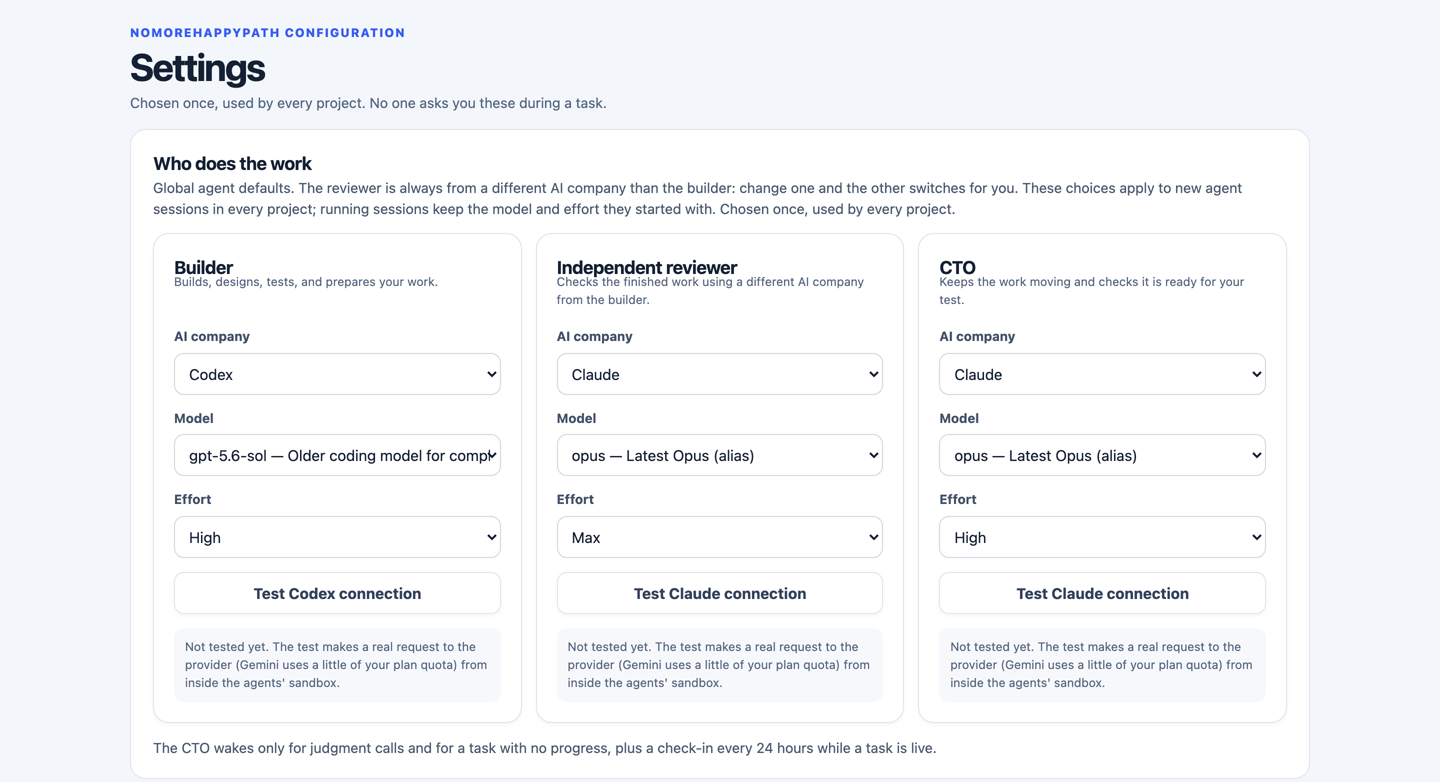
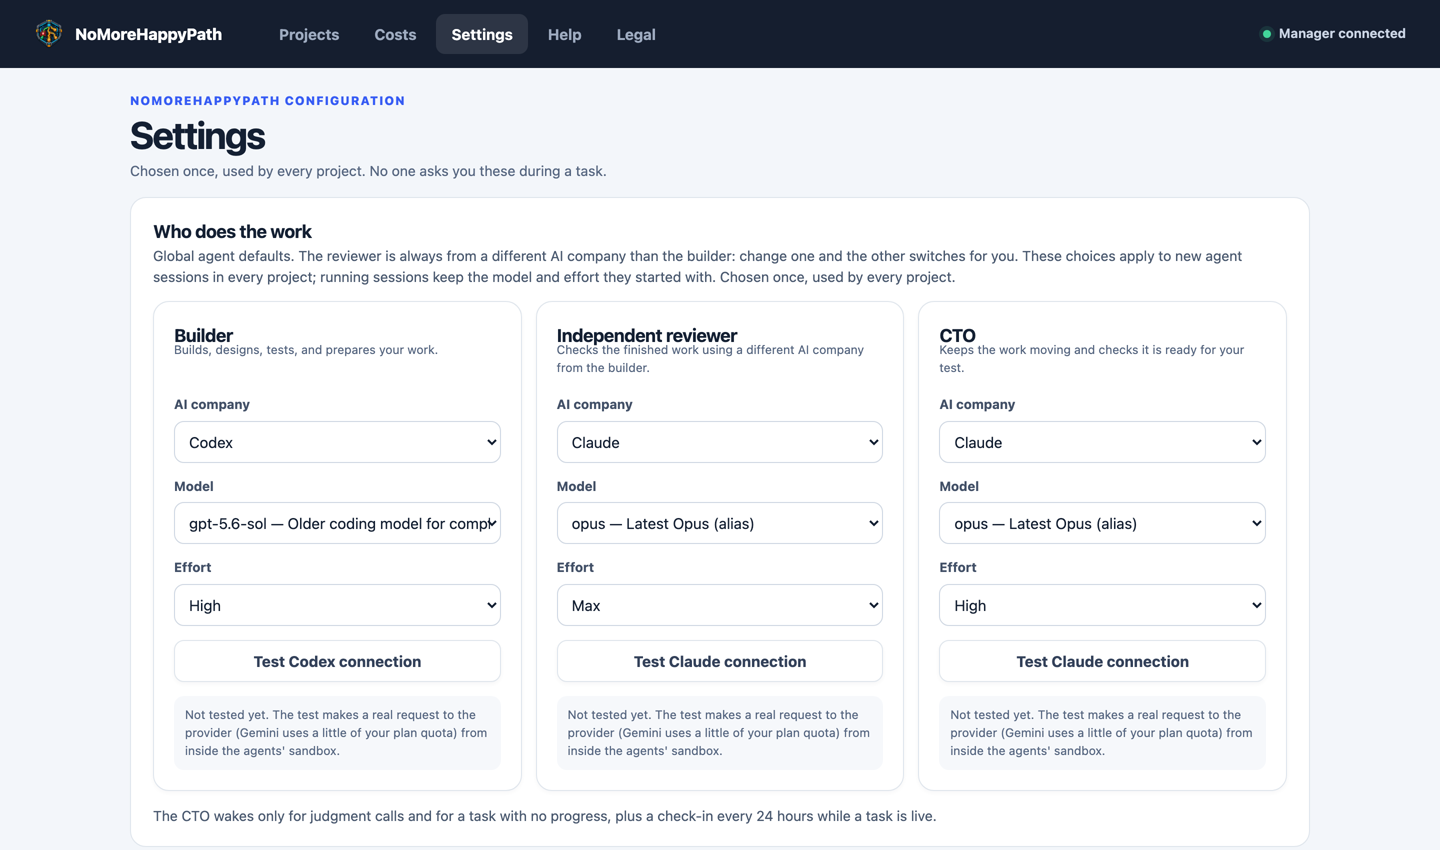
Swap in clean Settings and start-dialog screens (no version badge)

diff --git a/index.html b/index.html
@@ -361,7 +361,7 @@
         <div class="card"><h3>Security, enhanced on demand</h3><p>Every app gets a built-in security baseline. Switch on Enhanced security for a task and it adds a threat model, security tests and a controls register, ready for a security assessment or audit.</p></div>
       </div>
       <div class="shots" style="margin-top:30px">
-        <figure><a class="zoom" href="assets/mc-settings.png" target="_blank" rel="noopener"><img src="assets/mc-settings.png" width="1440" height="782" loading="lazy" alt="Settings: choose the AI company, model and effort for the builder, the independent reviewer and the CTO; the reviewer is always from a different AI company."></a><figcaption>Settings: pick the AI company, model and effort for each role, once.</figcaption></figure>
+        <figure><a class="zoom" href="assets/mc-settings.png" target="_blank" rel="noopener"><img src="assets/mc-settings.png" width="1440" height="850" loading="lazy" alt="Settings: choose the AI company, model and effort for the builder, the independent reviewer and the CTO; the reviewer is always from a different AI company."></a><figcaption>Settings: pick the AI company, model and effort for each role, once.</figcaption></figure>
         <figure><a class="zoom" href="assets/mc-start-kinds.png" target="_blank" rel="noopener"><img src="assets/mc-start-kinds.png" width="840" height="615" loading="lazy" alt="Start a Delivery Agent: choose Write code, Analyze code or Write specs, then the provider, model and effort for this launch."></a><figcaption>Choose the kind of work: write code, analyze code, or write specs.</figcaption></figure>
       </div>
     </div>
